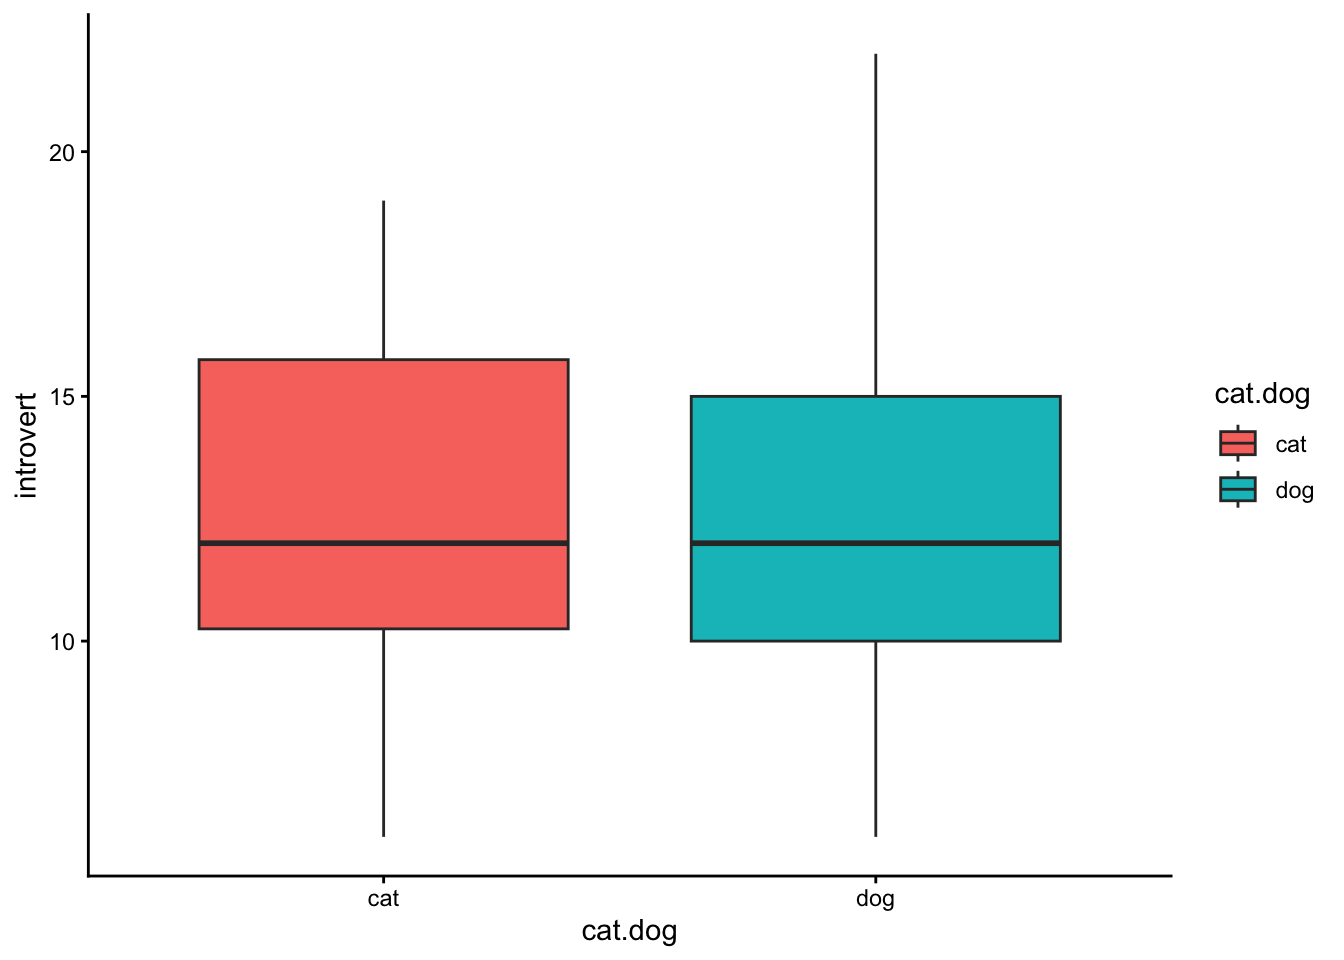
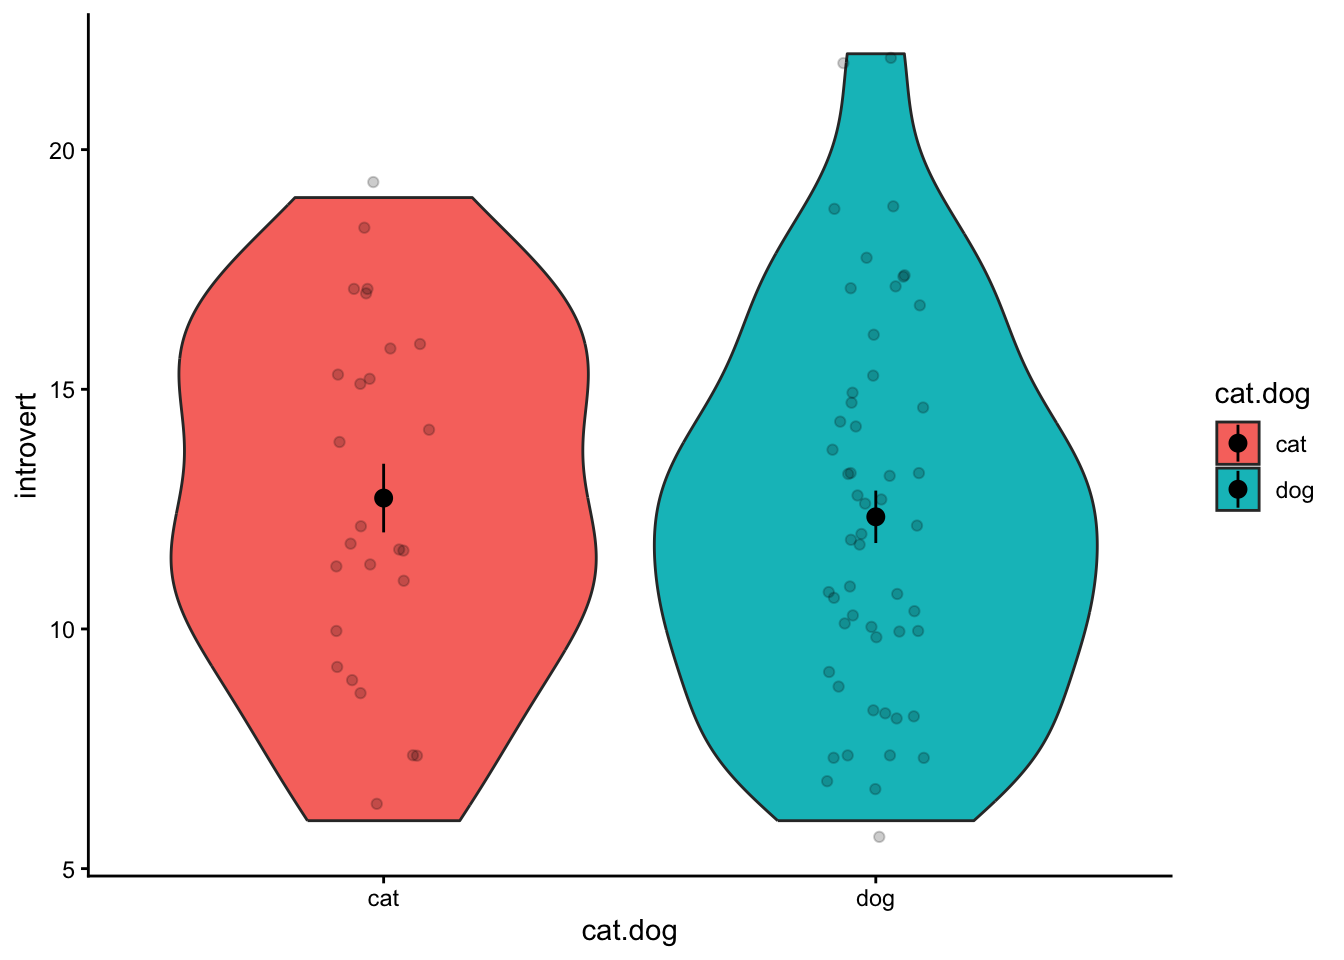
Update 19.10.26

diff --git a/4LM1.html b/4LM1.html
@@ -422,7 +422,6 @@ able to:</p>
 DV, including:</li>
 </ol>
 <ul>
-<li>box plot</li>
 <li>violin plot</li>
 </ul>
 </div>
@@ -516,32 +515,30 @@ necessary, but can help you organise your data.</p>
 </div>
 <div id="visualise-the-data." class="section level3">
 <h3>2. Visualise the data.</h3>
-<div id="box-plot" class="section level4">
-<h4>Box Plot</h4>
-<p>Box plots are good for representing the range and quantiles of your
-data. To create a box plot, use <code>geom_boxplot()</code>. Make sure
-to set the correct variables on the x- and y-axes (<code>cat.dog</code>
-and <code>introvert</code> respectively). We also map the ‘fill’
-aesthetic to the <code>cat.dog</code> variable so that the colours are
-different.</p>
-<pre class="r"><code>ggplot(data1.clean,aes(x = cat.dog,y = introvert,fill = cat.dog)) +
-  geom_boxplot() +
-  theme_classic()</code></pre>
-<p><img src="4LM1_files/figure-html/unnamed-chunk-4-1.png" width="672" /></p>
-</div>
 <div id="violin-plot" class="section level4">
 <h4>Violin Plot</h4>
 <p>Violin plots are good for representing the distributions of scores on
 the DV between groups, and can be created using
-<code>geom_violin()</code>. All aesthetics are identical to the box plot
-above. If you want to include visualisations of each individual data
-point, you can use <code>geom_jitter()</code>. You can also visualise
-the mean and standard error using the <code>stat_summary()</code>
-function.</p>
+<code>geom_violin()</code>. Make sure to set the correct variables on
+the x- and y-axes (<code>cat.dog</code> and <code>introvert</code>
+respectively). We also map the ‘fill’ aesthetic to the
+<code>cat.dog</code> variable so that the colours are different. If you
+want to include visualisations of each individual data point, you can
+use <code>geom_jitter()</code>. You can also visualise the mean and
+standard error using the <code>stat_summary()</code> function.</p>
 <pre class="r"><code>ggplot(data1.clean,aes(x = cat.dog,y = introvert,fill = cat.dog)) +
   geom_violin() +
   stat_summary() +
   geom_jitter(width = .1,alpha = .2) +
+  theme_classic()</code></pre>
+<p><img src="4LM1_files/figure-html/unnamed-chunk-4-1.png" width="672" /></p>
+</div>
+<div id="box-plot" class="section level4">
+<h4>Box Plot</h4>
+<p>Box plots are good for representing the range and quantiles of your
+data. To create a box plot, use <code>geom_boxplot()</code>.</p>
+<pre class="r"><code>ggplot(data1.clean,aes(x = cat.dog,y = introvert,fill = cat.dog)) +
+  geom_boxplot() +
   theme_classic()</code></pre>
 <p><img src="4LM1_files/figure-html/unnamed-chunk-5-1.png" width="672" /></p>
 </div>
